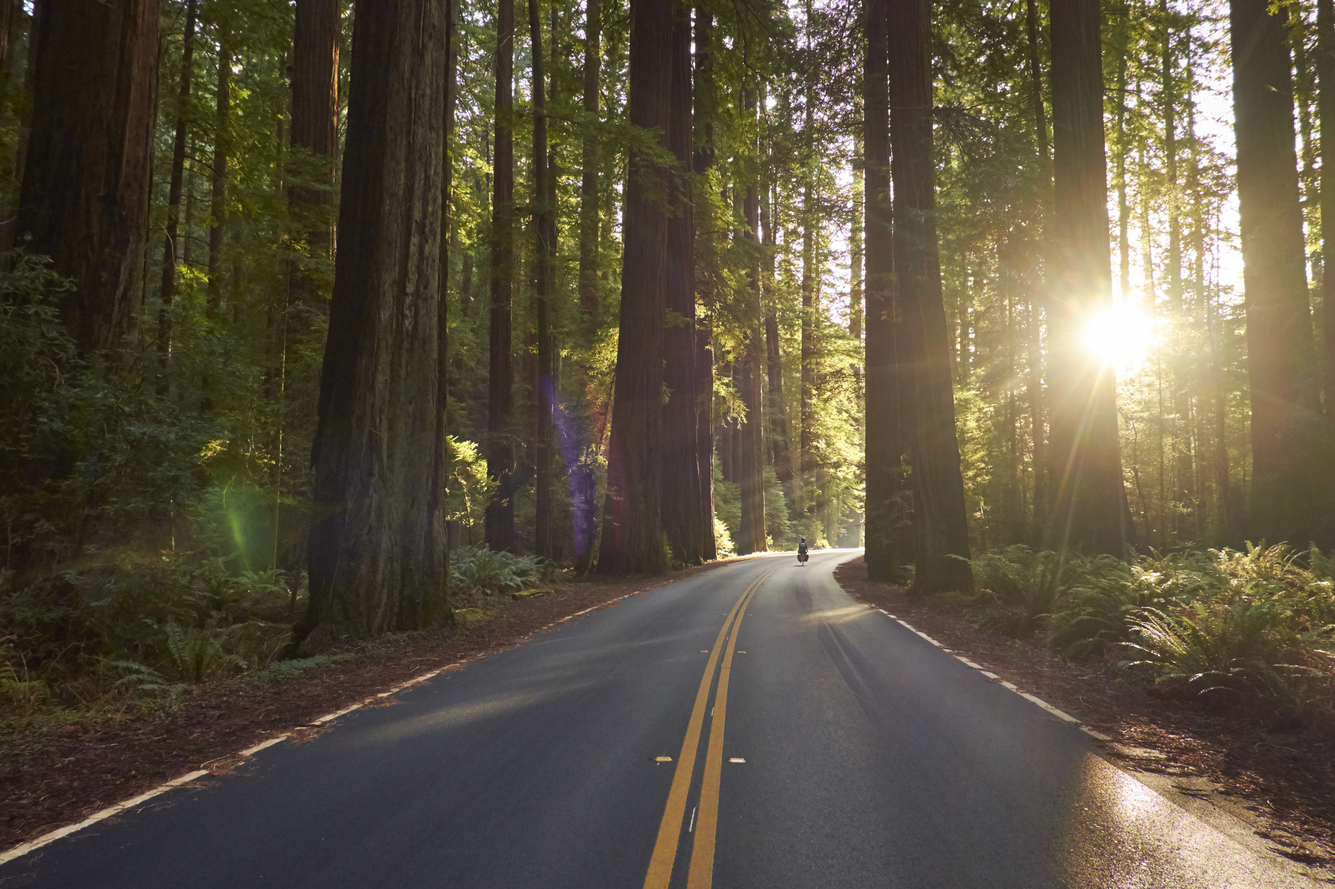
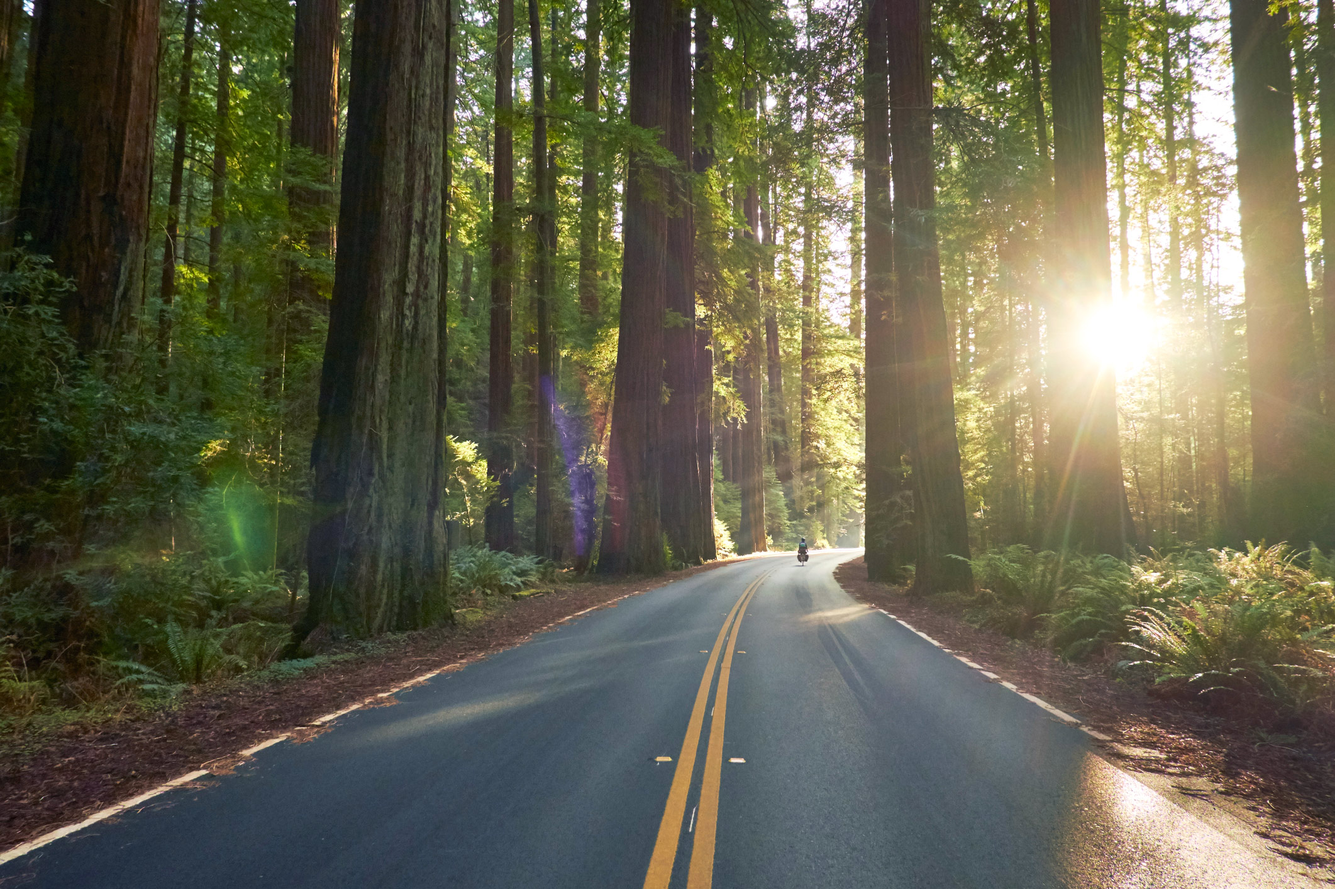
Small changes to different sections
-Blogger profile box given max-width
-Resized anti-road trip images, will revisit tomorrow.

diff --git a/css/style.css b/css/style.css
@@ -674,7 +674,7 @@ a.read-more {
 	width: 100%;
 	background-color: #fff;
 	height: 525px;
-	/*max-width: 850px;*/
+	max-width: 950px;
 	margin-bottom: 70px;
 	box-shadow: 2px 4px 12px rgba(0,0,0,.2);
 	border: 2px solid #05bbff;
@@ -899,7 +899,7 @@ ul.scroll-list {
 	box-shadow: none;
 }
 
-.parallax-bg__myers {
+/*.parallax-bg__myers {
 	background-image: url(../images/article_roadtrip/alamy_RM_BP6AMT.jpg);
 }
 
@@ -909,7 +909,7 @@ ul.scroll-list {
 
 .parallax-bg__eternal-tree-house {
 	background-image: url(../images/article_roadtrip/gty_RF_545168913.jpg);
-}
+}*/
 
 .parallax-bg__surf {
 	background-image: url(../images/surf-skate/surf_1.jpg);

diff --git a/index.html b/index.html
@@ -1745,7 +1745,7 @@
 </section>
 
 <!-- BELLA VIDEO -->
-<svg class="section-marker" xmlns="http://www.w3.org/2000/svg" viewBox="0 0 38.2 22.8">
+<!-- <svg class="section-marker" xmlns="http://www.w3.org/2000/svg" viewBox="0 0 38.2 22.8">
 	<polygon class="bg-shape" points="38.2 11.4 19.1 22.8 0 11.4 19.1 0 "/>
 	<text transform="matrix(1 0 0 1 15.8559 16.241)" class="letter">S</text>
 	<line class="line" x1="5.6" y1="11.4" x2="13.6" y2="11.4"/>
@@ -1773,7 +1773,7 @@
 			</div>
 		</div>
 	</div>
-</section>
+</section> -->
 
 <script src="js/bootstrap.min.js"></script>
 <!-- <script src="js/jquery.waypoints.min.js"></script> -->
